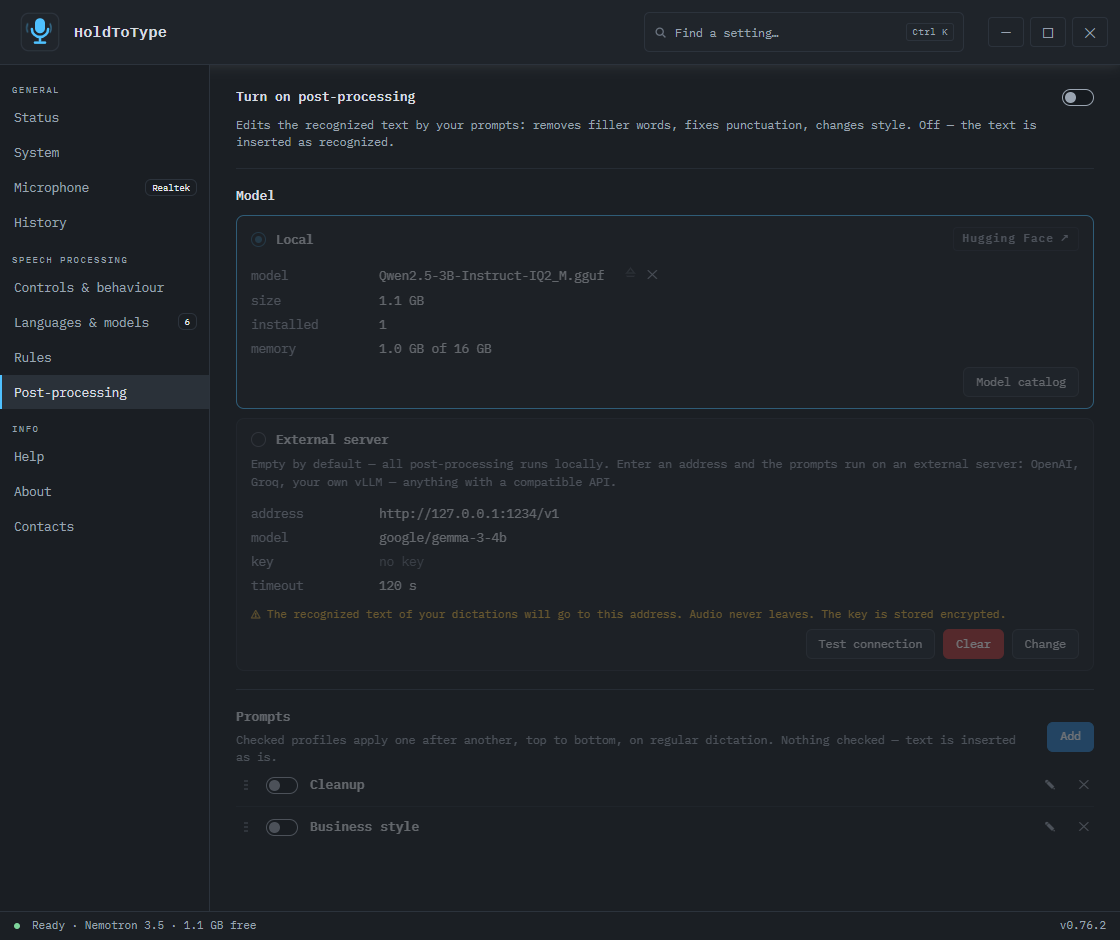
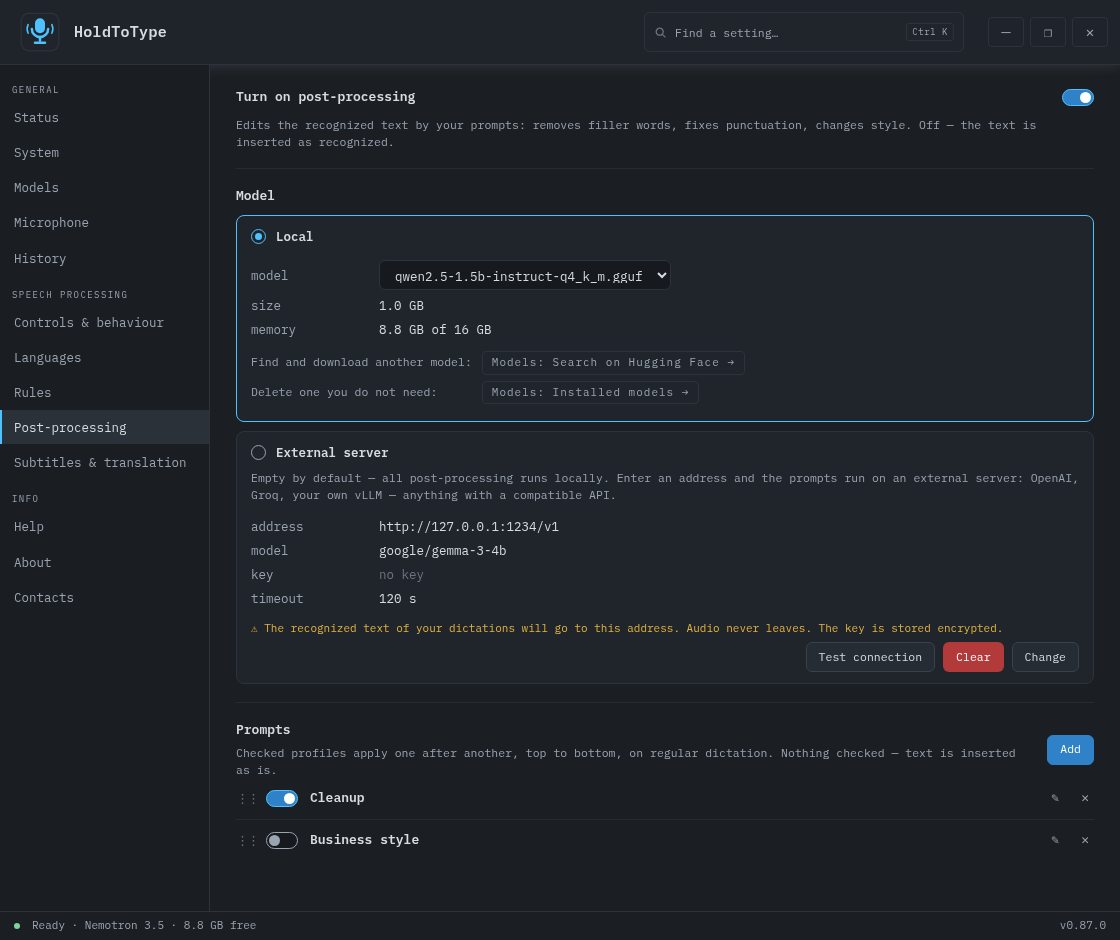
the readme follows 0.87.0 with fresh shots of every tab, the models and the subtitles tabs among them, the translation files in the folder table and the help test in the tests

diff --git a/README.md b/README.md
@@ -40,12 +40,14 @@ Every shot below is the Editor design, the default: dark grey with a blue accent
 | Status | System |
 |---|---|
 | [![Status: is everything ready, at a glance](docs/shot-state.png)](docs/shot-state.png) | [![System: language, design, updates, maintenance and the recognition server](docs/shot-system.png)](docs/shot-system.png) |
+| **Models** | **Microphone** |
+| [![Every model in one place: installed, to download, the Hugging Face search, unloading when idle](docs/shot-library.png)](docs/shot-library.png) | [![Device, level meter and the microphone test](docs/shot-mic.png)](docs/shot-mic.png) |
+| **History** | **Controls & behaviour** |
+| [![History with its retention and its exclusions](docs/shot-history.png)](docs/shot-history.png) | [![The shortcut, insertion and the on-screen plate](docs/shot-dictation.png)](docs/shot-dictation.png) |
 | **Languages** | **Rules** |
 | [![A model per language](docs/shot-models.png)](docs/shot-models.png) | [![Dictionary, replacements and voice commands](docs/shot-rules.png)](docs/shot-rules.png) |
-| **Controls & behaviour** | **Post-processing** |
-| [![The shortcut, insertion and the on-screen plate](docs/shot-dictation.png)](docs/shot-dictation.png) | [![The editor model and the prompt chain](docs/shot-post.png)](docs/shot-post.png) |
-| **Microphone** | **History** |
-| [![Device, level meter and the microphone test](docs/shot-mic.png)](docs/shot-mic.png) | [![History with its retention and its exclusions](docs/shot-history.png)](docs/shot-history.png) |
+| **Post-processing** | **Subtitles & translation** |
+| [![The editor model and the prompt chain](docs/shot-post.png)](docs/shot-post.png) | [![Subtitles for what the computer plays: translation, the three translators and the window](docs/shot-subs.png)](docs/shot-subs.png) |
 | **Help** | **About** |
 | [![The guide with its contents pinned to the right](docs/shot-help.png)](docs/shot-help.png) | [![Version and every external dependency with its licence](docs/shot-about.png)](docs/shot-about.png) |
 | **Contacts** | **Installer** |
@@ -129,7 +131,7 @@ Download the archive from Releases (or build `dist/` yourself), copy the folder 
 
 Icon colours: the accent of your design (blue on Editor) — ready, red — recording, orange — transcribing, grey — disabled/error.
 
-A full description of every feature lives in **Help** — sixteen sections written for people rather than for the interface, with mock-ups of the plate, the cards and the fields drawn inline. The contents stand in a column on the right that follows you as you read and highlights the section you are in; on a narrow window an icon in the corner widens the window to bring them back. The search in the header (Ctrl+K) reaches into the manual too — a word from it is found just like a setting.
+A full description of every feature lives in **Help** — eighteen sections written for people rather than for the interface, with mock-ups of the plate, the cards and the fields drawn inline. The contents stand in a column on the right that follows you as you read and highlights the section you are in; on a narrow window an icon in the corner widens the window to bring them back. The search in the header (Ctrl+K) reaches into the manual too — a word from it is found just like a setting.
 
 ### Safe insertion
 
@@ -147,7 +149,7 @@ Left-click the tray icon to open the settings window. Thirteen sections in three
 | **History** | the switch that turns it on; how long an entry lives — any number of minutes, hours or days, typed by hand — and how many entries to keep at most; the programs nothing is ever recorded from, added from the list of open windows and worn as removable chips; search, and per entry: copy, paste back into the window you came from, delete, and clearing everything. Three blocks parted by a line, and every entry says the day it goes |
 | **Controls & behaviour** | the hotkey, hold or toggle, the recognition model with its language right beside the shortcut they serve, auto-Enter, stop on silence in toggle mode, recording durations, clipboard restore, character-by-character typing, the on-screen overlay with its little screen map — eight positions, a draggable miniature, cursor-follow, and a monitor choice when there is more than one — and the whole of translation: target language, when to ask, dialog languages, its own shortcut |
 | **Microphone** | input device with a live level meter, recording cue sounds and the sound theme |
-| **Models** | every model the app has, in four blocks. The installed ones, one line each: the name, what it is used for right now — dictation and its languages, subtitles, post-processing, subtitle translation — or, when nothing uses it, a plate that leads to where it is turned on; accuracy and speed bars, the size, an unload icon on the one in memory and a cross that deletes, with the count and the total size on top, a list that unloads the models after 5, 10 or 30 minutes or an hour without dictation or subtitles, and the check against reference checksums at the bottom. Deleting a model in use says where it is used first; the languages it served go back to Auto-detect, and Auto-detect moves to another installed model when its own one is deleted. The models to download, in the same lines with a download arrow, a live percentage and a cancel cross, the licence-bound one explaining itself and offering its link instead; a downloaded model moves up to the installed ones. The Hugging Face search for editor models, with the magnifier as its button and a cross that clears it, filtered by default to files that fit this computer, with the hidden ones counted. And your own model: a Whisper ggml `*.bin` file or a sherpa-onnx folder dropped into `models/`, found after a restart and shown honestly without bars, since its powers are unknown |
+| **Models** | every model the app has, in four blocks. The installed ones, one line each: the name, what it is used for right now — dictation and its languages, subtitles, post-processing, subtitle translation — or, when nothing uses it, a plate that leads to where it is turned on; accuracy and speed bars, the size, an unload icon on the one in memory and a cross that deletes, with the count and the total size on top, a list that unloads the models after 5, 10 or 30 minutes or an hour without dictation or subtitles, and the check against reference checksums at the bottom; in a narrow settings window a row folds into lines — the name and the size, then what it is for, then the plates and the bars. Deleting a model in use says where it is used first; the languages it served go back to Auto-detect, and Auto-detect moves to another installed model when its own one is deleted. The models to download, in the same lines with a download arrow, a live percentage and a cancel cross, the licence-bound one explaining itself and offering its link instead; a downloaded model moves up to the installed ones. The Hugging Face search for editor models, with the magnifier as its button and a cross that clears it, filtered by default to files that fit this computer, with the hidden ones counted. And your own model: a Whisper ggml `*.bin` file or a sherpa-onnx folder dropped into `models/`, found after a restart and shown honestly without bars, since its powers are unknown |
 | **Languages** | a list of languages, each row naming its model and, when one is set, wearing its own shortcut as a chip; a language without one of its own says, in dimmed text, that it follows Auto-detect. Click a language and the installed models that can serve it unfold right under it, each card with its accuracy and speed bars, its languages and translate ability in words and an honest memory number, and the recommended one, when it is missing, last, saying it is not installed and how big it is. A click on a card's switch is the choice — a missing model asks to be downloaded and takes over once ready, and the one download shows its progress on its card, on the collapsed row and in a line above the list. A plate under the cards leads to the models to download on the Models tab |
 | **Rules** | where punctuation comes from, the recognition dictionary (read by Whisper models only — the page says so), replacements — each one pinned to a language or serving them all — and voice commands; each list has its own search box and add button and shows its entries as removable chips, and the dialog that adds a command fills in the usual ones for your language with one button |
 | **Post-processing** | the editor model, picked from a list of the installed ones, with its size and the memory, and two plates that lead to the Hugging Face search and to the installed models on the Models tab, the chain of editing prompts with their shortcuts, and the external OpenAI-compatible server for those who want one |
@@ -214,6 +216,8 @@ The result lands in `dist/`:
 | `models/gigaam-v3/` | the GigaAM v3 model: encoder, decoder, joiner, tokens |
 | `models/nemotron-3.5/` | the Nemotron streaming model, when downloaded |
 | `models/parakeet-v3/` | the Parakeet TDT 0.6B v3 model, when downloaded |
+| `models/gemma-3-4b-it-Q4_K_M.gguf` | the subtitle translation model of the Quality translator, when downloaded |
+| `models/fast/` | the language packs of the Fast translator, one folder per direction, when added |
 | `config.default.json` | default settings |
 
 The pipeline: MinGW-w64 cross-compilation of whisper.cpp and llama.cpp inside a Linux container, the Go client with cgo (microphone capture), icon generation, installer packaging — all in `build/Dockerfile`. Both engines are pinned to specific upstream versions (`WHISPER_CPP_VERSION`, `LLAMA_CPP_VERSION` build args), so builds stay reproducible.
@@ -224,12 +228,13 @@ Everything runs in containers — nothing to install locally:
 
 ```powershell
 docker build --file build/Dockerfile --target gotest .        # Go unit tests + go vet (Windows target)
-docker run --rm -v "${PWD}:/w" -w /w node:20 sh -c "node test/build-page.js && node test/build-page.js ru && cd test && npm i --no-save --silent jsdom && node ui.test.js && node models.test.js"
+docker run --rm -v "${PWD}:/w" -w /w node:20 sh -c "node test/build-page.js && node test/build-page.js ru && cd test && npm i --no-save --silent jsdom && node ui.test.js && node models.test.js && node help.test.js"
 ```
 
 - `client/internal/...` — unit tests for the pieces that carry logic: version comparison, hotkey duplicates, per-application rules, replacements, voice commands, history, prompt chains, sound analysis, file hashes and the lists file.
 - `test/ui.test.js` — the real settings page rendered in jsdom: section switching, the translation enable/disable matrix, the prompt editor accordion, rules, replacements, commands and their file, history with copy and paste-back, model deletion and the model check, the first-run wizard, and "no JavaScript errors".
 - `test/models.test.js` — the Models tab and the tabs that use it, on a page of its own with English and Russian strings: the blocks and their order, what each model is used for, deleting a free model and a model in use with the languages, Auto-detect, post-processing and subtitle translation left working after it, a download moving a model to the installed ones, the Hugging Face search with its magnifier, Enter and cross, an unfolded language without icons, the editor list and its empty state, the plates that lead between tabs, and sizes in the units of the interface language.
+- `test/help.test.js` — the help against the settings page, in all eight languages: every row, block heading, choice card and button of a tab is named in that tab's help section, and every row of the help tables names something that is on the tab.
 - `test/locales.test.js` — every one of the eight languages carries every string the page and the program ask for, and invents none of its own.
 - `test/setup.test.js` — the installer page: the steps, the model choice, the silent switches.
 - `client/internal/theme` — every design keeps its own face, corners, level marks and lamps, and the CSS variables the page needs are all there.
